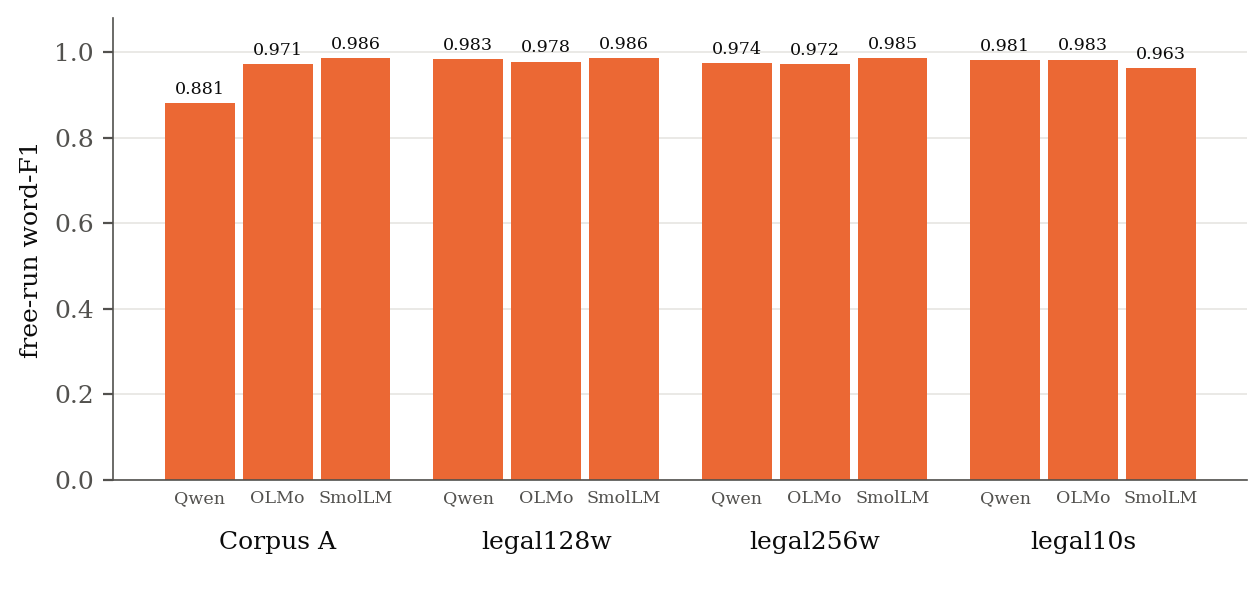
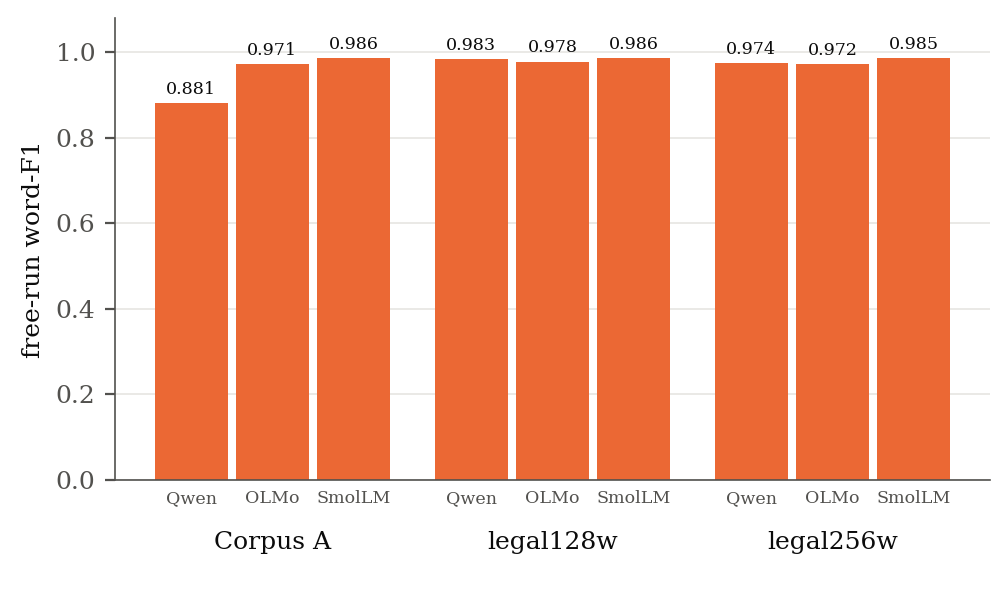
ch3 figures: leave legal10s out of the translation and ceiling figures; caption ties the ceiling to the OLMo row of the direction grid

diff --git a/figures/scripts/make_hub_figures.py b/figures/scripts/make_hub_figures.py
@@ -5,8 +5,8 @@
 Writes figures/ch3/{hub_architecture,direction_recovery,hub_translation,hub_ceiling}.{pdf,png}.
 Sources: results/v6_3/hpc-final/inversion.json, results/legal128w/v6_3/inversion.json (5,000 validation
 prompts each); both oct_w5c-noise.json zero-noise rows (G2, 500 development prompts);
-results/legal256w/v7_2/main/v8_6-readiness.json; results/legal10s/v7_2/main/oct_w5b-summary.json (G2) and
-oct_w5b-report.md (G1 0.9705, shuffled 0.044; no result file in the local mirror, typed below).
+results/legal256w/v7_2/main/v8_6-readiness.json;
+mixed-oct_w5b-L.json and mixed-v8_6-s1.json (per-decoder G2). legal10s is left out of both bar figures.
 """
 import json
 import sys
@@ -140,10 +140,9 @@ def translation():
         ("Corpus A", a["cross_mean"]["hub"]["word_f1"], a["cross_mean"]["shuffled"]["word_f1"]),
         ("legal128w", l128["cross_mean"]["hub"]["word_f1"], l128["cross_mean"]["shuffled"]["word_f1"]),
         ("legal256w", l256["cross_mean"], l256["shuffled_max"]),
-        ("legal10s", 0.9705, 0.044),  # oct_w5b-report.md; no result file in the local mirror
     ]
     series = [("hub output", BLUE), ("shuffled control", "#9a9994")]
-    fig, ax = bar_axes((4.6, 2.9))
+    fig, ax = bar_axes((3.8, 2.9))
     width = 0.36
     for i, row in enumerate(rows):
         print("G1", row[0], [round(v, 4) for v in row[1:]])
@@ -172,9 +171,8 @@ def ceiling():
         ("Corpus A", from_noise("results/v7_2/main/oct_w5c-noise.json")),
         ("legal128w", from_setting("results/legal128w/v7_2/main/mixed-oct_w5b-L.json")),
         ("legal256w", from_setting("results/legal256w/v7_2/main/mixed-v8_6-s1.json")),
-        ("legal10s", from_setting("results/legal10s/v7_2/main/mixed-oct_w5b-s1.json")),
     ]
-    fig, ax = bar_axes((6.3, 3.0))
+    fig, ax = bar_axes((5.0, 3.0))
     width = 0.26
     ticks, labels = [], []
     for i, (name, per) in enumerate(rows):
@@ -188,7 +186,7 @@ def ceiling():
             labels.append(label)
         ax.text(i, -0.11, name, ha="center", va="top", fontsize=9, color=INK, transform=ax.get_xaxis_transform())
     ax.set_xticks(ticks, labels, fontsize=6.3)
-    fig.subplots_adjust(left=0.09, right=0.99, top=0.97, bottom=0.2)
+    fig.subplots_adjust(left=0.115, right=0.99, top=0.97, bottom=0.2)
     save(fig, "hub_ceiling")
 
 

diff --git a/chapters/ch3_translation_hub/draft_v2/ch3_hub_draft.tex b/chapters/ch3_translation_hub/draft_v2/ch3_hub_draft.tex
@@ -117,15 +117,15 @@ legal10s & \vf{0.976} & \todo{} & \vf{0.044} \\ % src: oct_w5b-report
 %% FIX: two figures added, one per gate
 \begin{figure}[ht]
 \centering
-\includegraphics[width=0.7\textwidth]{ch3/hub_translation}
-\caption{The hub translates between models on every corpus. A prompt enters through one model and another model's frozen decoder regenerates it; the bars average the six source-decoder pairs (Gate G1), \vf{5{,}000} validation prompts. Shuffled control: the same hub outputs in random order; the legal256w control is the largest of its six pairs, the others their mean. One hub seed per corpus.}
+\includegraphics[width=0.6\textwidth]{ch3/hub_translation}
+\caption{The hub translates between models on each of three corpora. A prompt enters through one model and another model's frozen decoder regenerates it; the bars average the six source-decoder pairs (Gate G1), \vf{5{,}000} validation prompts. Shuffled control: the same hub outputs in random order; the legal256w control is the largest of its six pairs, the others their mean. One hub seed per corpus.}
 \label{fig:hub:translation}
 \end{figure}
 
 \begin{figure}[ht]
 \centering
-\includegraphics[width=0.9\textwidth]{ch3/hub_ceiling}
-\caption{From one model's true hub output, each frozen decoder regenerates the prompt. The hub output of OLMo is decoded by the three decoders on \vf{500} development prompts per corpus; their mean is the ceiling G2 (\vf{0.946}, \vf{0.982}, \vf{0.977}, \vf{0.976}), the most a map from an unseen model into the hub can reach. The Qwen decoder on Corpus A is the one bar below \vf{0.96}.}
+\includegraphics[width=0.75\textwidth]{ch3/hub_ceiling}
+\caption{From one model's true hub output, each frozen decoder regenerates the prompt. The hub output of OLMo is decoded by the three decoders on \vf{500} development prompts per corpus; their mean is the ceiling G2 (\vf{0.946}, \vf{0.982}, \vf{0.977}), the most a map from an unseen model into the hub can reach. The Qwen decoder on Corpus A is the one bar below \vf{0.97}. The bars repeat the OLMo row of Figure~\ref{fig:hub:directions} on the \vf{500} development prompts that Chapter~\ref{ch:attack} reads.}
 \label{fig:hub:ceiling}
 \end{figure}
 
